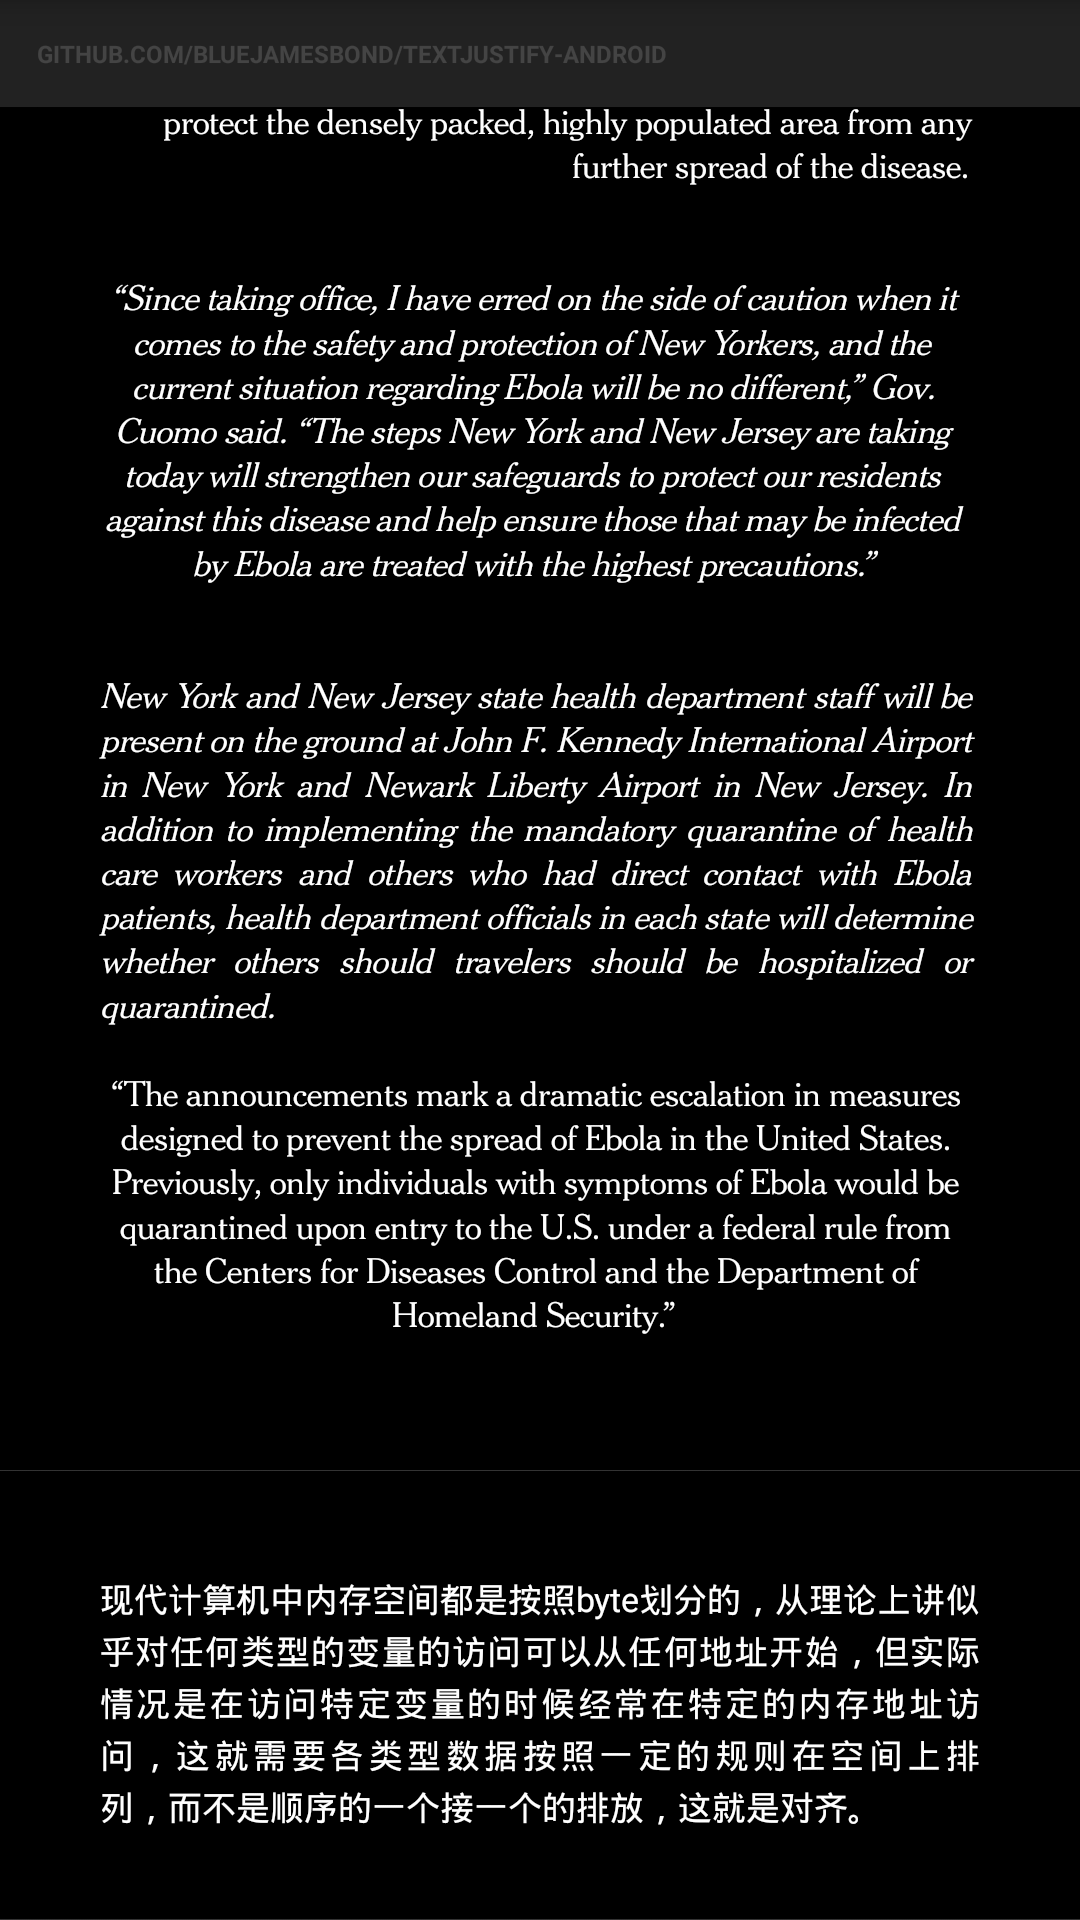
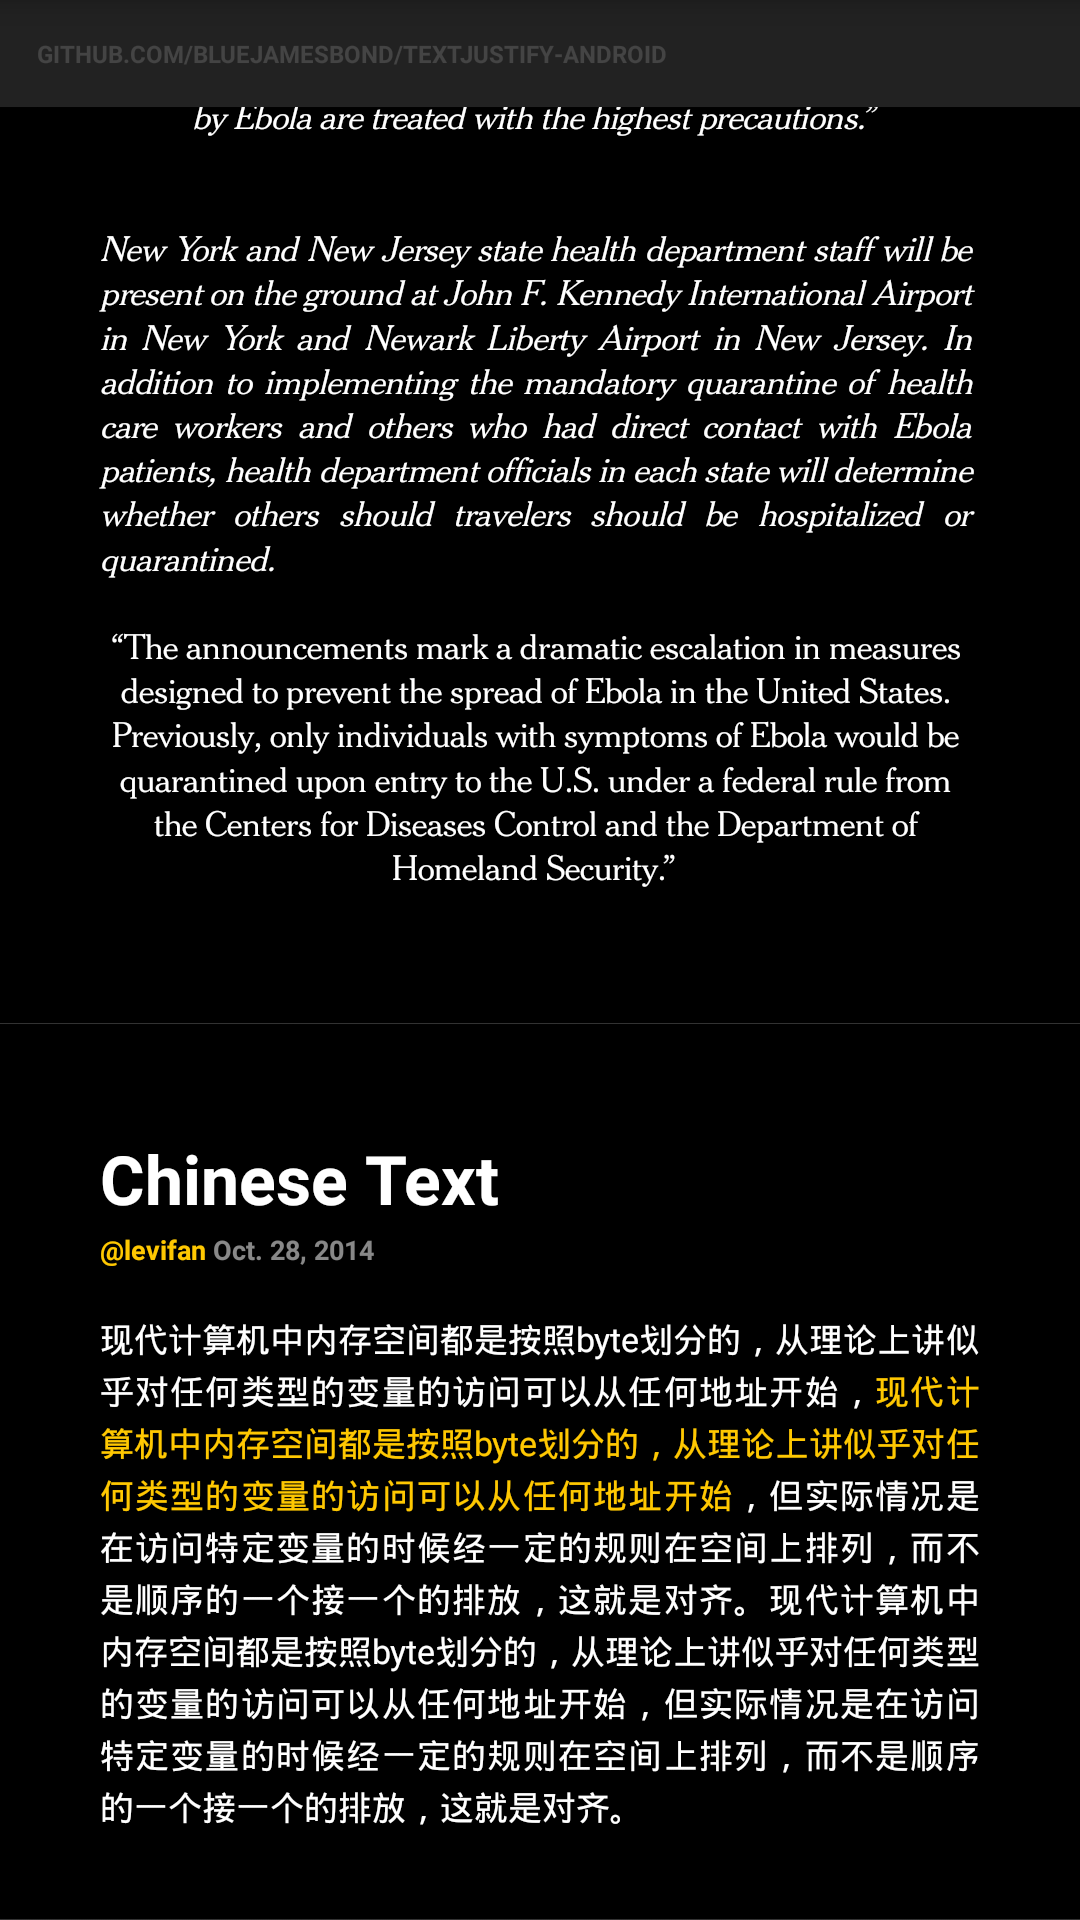
Housekeeping

Changed region(s): [[0.0917, 0.5625, 0.9167, 0.9688], [0.0917, 0.125, 0.9167, 0.5312], [0.1528, 0.0625, 0.8861, 0.0938]]

diff --git a/TextJustify/app/src/main/java/com/text/examples/Articles.java b/TextJustify/app/src/main/java/com/text/examples/Articles.java
@@ -40,7 +40,6 @@ import com.text.styles.CenterSpan;
 import com.text.styles.JustifiedSpan;
 import com.text.styles.LeftSpan;
 import com.text.styles.RightSpan;
-import com.text.styles.TextAlignmentSpan;
 
 public class Articles {
 
@@ -56,26 +55,24 @@ public class Articles {
     }
 
     static ArticleBuilder getWelcome() {
-        ArticleBuilder ambb = new ArticleBuilder();
-        ambb.append("<font color=0xFFC801>Welcome to DocumentView</font>",
-                false, new RelativeSizeSpan(2.5f), new StyleSpan(Typeface.BOLD), new LeftSpan());
-        return ambb;
+        return new ArticleBuilder()
+                .append("<font color=0xFFC801>Welcome to DocumentView</font>",
+                        false, new RelativeSizeSpan(2.5f), new StyleSpan(Typeface.BOLD), new LeftSpan());
     }
 
     static String getAbout() {
-        StringBuilder smb = new StringBuilder();
-        smb.append("Document view now supports both String and Spannables. To support this, there are two (2) types of layouts: (a) DocumentLayout and (b) SpannedDocumentLayout. " +
-                "DocumentLayout supports just plain Strings just like the text you are reading. However, Spannables require the " +
-                "constructor to have SpannedDocumentLayout.class as a parameter. For now, DocumentLayout will offer significant speed improvements " +
-                "compared to SpannedDocumentLayout, so use each class accordingly. DocumentLayout also supports hyphenation. To learn more about" +
-                "these layouts and what they have to offer visit the link in the titlebar above. And please report all the issues on GitHub!");
-        return smb.toString();
+        return new StringBuilder()
+                .append("Document view now supports both String and Spannables. To support this, there are two (2) types of layouts: (a) DocumentLayout and (b) SpannedDocumentLayout. " +
+                        "DocumentLayout supports just plain Strings just like the text you are reading. However, Spannables require the " +
+                        "constructor to have SpannedDocumentLayout.class as a parameter. For now, DocumentLayout will offer significant speed improvements " +
+                        "compared to SpannedDocumentLayout, so use each class accordingly. DocumentLayout also supports hyphenation. To learn more about" +
+                        "these layouts and what they have to offer visit the link in the titlebar above. And please report all the issues on GitHub!").toString();
     }
 
     static ArticleBuilder getArticle1() {
-        ArticleBuilder ambb = new ArticleBuilder();
-        ambb.append("WHO: Ebola Cases",
-                false, new RelativeSizeSpan(2f), new StyleSpan(Typeface.BOLD))
+        return new ArticleBuilder()
+                .append("WHO: Ebola Cases",
+                        false, new RelativeSizeSpan(2f), new StyleSpan(Typeface.BOLD))
                 .append("<font color=0xFFC801>Sam Frizell</font><font color=0x888888> @Sam_Frizell  Oct. 25, 2014</font>",
                         false, new RelativeSizeSpan(0.8f), new StyleSpan(Typeface.BOLD))
                 .append("<font color=0x888888>Updated: Oct. 25, 2014 2:34 PM</font>".toUpperCase(),
@@ -90,13 +87,12 @@ public class Articles {
                         true, new RelativeSizeSpan(1f), new JustifiedSpan())
                 .append("In New York and New Jersey, governors Andrew Cuomo and Chris Christie have implemented controversial quarantines on all healthcare workers returning from West Africa after a doctor returning from Guinea contracted the disease and was diagnosed in New York.",
                         false, new RelativeSizeSpan(1f), new JustifiedSpan());
-        return ambb;
     }
 
     static ArticleBuilder getArticle2() {
-        ArticleBuilder ambb = new ArticleBuilder();
-        ambb.append("Christie and Cuomo Announce Mandatory Ebola Quarantine",
-                false, new RelativeSizeSpan(2f), new StyleSpan(Typeface.BOLD))
+        return new ArticleBuilder()
+                .append("Christie and Cuomo Announce Mandatory Ebola Quarantine",
+                        false, new RelativeSizeSpan(2f), new StyleSpan(Typeface.BOLD))
                 .append("<font color=0xFFC801>Justin Worland</font><font color=0x888888> @justinworland  Oct. 25, 2014</font>",
                         false, new RelativeSizeSpan(0.8f), new StyleSpan(Typeface.BOLD))
                 .append("<font color=0x888888>Updated: Oct. 25, 2014 2:34 PM</font>".toUpperCase(),
@@ -113,13 +109,17 @@ public class Articles {
                         true, new RelativeSizeSpan(1f), new JustifiedSpan(), new StyleSpan(Typeface.ITALIC))
                 .append("“The announcements mark a dramatic escalation in measures designed to prevent the spread of Ebola in the United States. Previously, only individuals with symptoms of Ebola would be quarantined upon entry to the U.S. under a federal rule from the Centers for Diseases Control and the Department of Homeland Security.”",
                         false, new RelativeSizeSpan(1f), new CenterSpan());
-        return ambb;
     }
 
-    static ArticleBuilder getArticle3(){
-        ArticleBuilder ambb = new ArticleBuilder();
-        ambb.append("现代计算机中内存空间都是按照byte划分的，从理论上讲似乎对任何类型的变量的访问可以从任何地址开始，但实际情况是在访问特定变量的时候经常在特定的内存地址访问，这就需要各类型数据按照一定的规则在空间上排列，而不是顺序的一个接一个的排放，这就是对齐。"
-                ,false, new RelativeSizeSpan(1f), new JustifiedSpan());
-        return ambb;
+    static ArticleBuilder getArticle3() {
+        return new ArticleBuilder()
+                .append("Chinese Text",
+                        false, new RelativeSizeSpan(2f), new StyleSpan(Typeface.BOLD))
+                .append("<font color=0xFFC801>@levifan</font><font color=0x888888> Oct. 28, 2014</font>",
+                        true, new RelativeSizeSpan(0.8f), new StyleSpan(Typeface.BOLD))
+                .append("现代计算机中内存空间都是按照byte划分的，从理论上讲似乎对任何类型的变量的访问可以从任何地址开始，<font color=0xFFC801>现代计算机中内存空间都是按照byte划分的，从理论上讲似乎对任何类型的变量的访问可以从任何地址开始</font>，" +
+                        "但实际情况是在访问特定变量的时候经一定的规则在空间上排列，而不是顺序的一个接一个的排放，这就是对齐。现代计算机中内存空间都是按照byte划分的，从理论上讲似乎对任何类型的变量的访问可以从任何地址开始，但实际情况是在访问特定变量的时候" +
+                        "经一定的规则在空间上排列，而不是顺序的一个接一个的排放，这就是对齐。"
+                        , false, new RelativeSizeSpan(1f), new JustifiedSpan());
     }
 }
